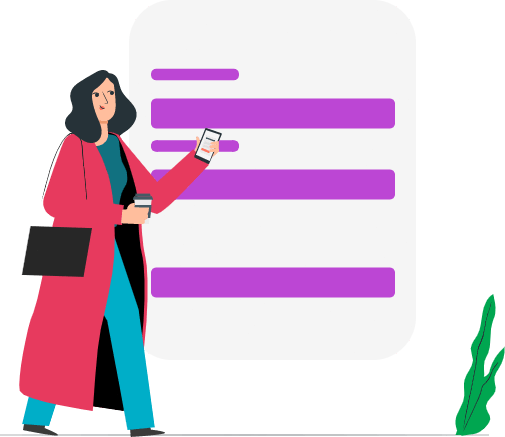
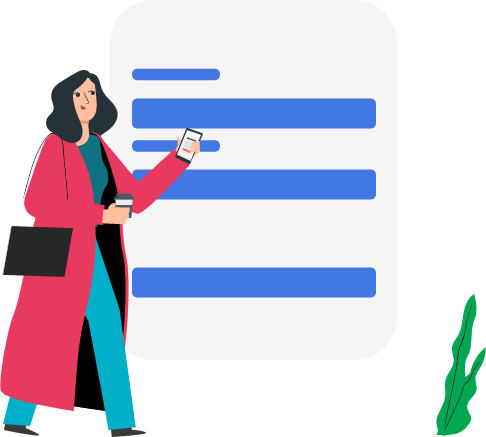
add

Changed region(s): [[0.0, 0.1487, 0.9877, 1.0]]

diff --git a/src/views/auth/verfiyemail.vue b/src/views/auth/verfiyemail.vue
@@ -15,10 +15,10 @@
                <h1 class="my-4 text-center">Verify your e-mail</h1>
                <p class="ppp"> Please enter the 4 digit code sent to name@example.com</p>
              <div class="my-4 v-code">
-                 <input type="text" class="i-code" @keyup="check($event)" v-model="i.i1">
-                 <input type="text" class="i-code" @keyup="check($event)" v-model="i.i2"> 
-                 <input type="text" class="i-code" @keyup="check($event)" v-model="i.i3">
-                 <input type="text" class="i-code" @keyup="check($event)" v-model="i.i4">
+                 <input type="number" min="0"  max="9" class="i-code" @keyup="check($event)" v-model="i.i1">
+                 <input type="number" min="0"  max="9" class="i-code" @keyup="check($event)" v-model="i.i2"> 
+                 <input type="number" min="0"  max="9" class="i-code" @keyup="check($event)" v-model="i.i3">
+                 <input type="number" min="0"  max="9" class="i-code" @keyup="check($event)" v-model="i.i4">
              </div>
              <h1 id="count"></h1>
              <div class="form-group my-5">
@@ -48,14 +48,14 @@ export default {
     methods:{
         check(e){
             // check verfiy inputs
-            var TypeOfKey = parseInt(e.key);
             var reqnumber = [0,1,2,3,4,5,6,7,8,9];  
             var isallow   = reqnumber.includes(parseInt(e.target.value)); 
             
 
-            if(Number.isInteger(TypeOfKey) && isallow){
+            if(isallow){
                 if(e.target.nextElementSibling != null){
                     e.target.nextElementSibling.focus();
+                    
                 }
             } else {
                 e.target.value = '';
@@ -69,18 +69,18 @@ export default {
 
         const CountdownE = document.getElementById("count");
 
-     var my = setInterval(()=>{
-            const minutes = Math.floor(time / 60);
-            const sec     = time % 60;
+        var my = setInterval(()=>{
+                const minutes = Math.floor(time / 60);
+                const sec     = time % 60;
 
-            CountdownE.innerHTML = `${minutes}: ${sec}`;
+                CountdownE.innerHTML = `${minutes}: ${sec}`;
 
-            time--;
-            if(time < 0) {
-                clearInterval(my);
-            }
-        }, 1000)
-    }
+                time--;
+                if(time < 0) {
+                    clearInterval(my);
+                }
+            }, 1000)
+        }
 }
 </script>
 
@@ -91,7 +91,7 @@ body{
 .row{
     margin: 0 !important;
         .left {
-        background-color: #BA43DE;
+        background-color: #447AE6;
         height: 100vh;
         border-bottom-right-radius: 25px;
         border-top-right-radius: 25px;
@@ -120,6 +120,11 @@ body{
          margin-top: 80px;
         .ppp{
             font-size: 19px;
+        }
+        input[type=number]::-webkit-inner-spin-button, 
+        input[type=number]::-webkit-outer-spin-button { 
+        -webkit-appearance: none; 
+        
         }
         .i-code{
             border: none;
@@ -159,8 +164,9 @@ body{
 
             .create-account{
                 .btn-create-account{
-                     width: 461px;
-                    background-color: #BC45D6;
+                    width: 461px;
+                    opacity: 0.5019607843137255;
+                    background-color: #4378E3;
                     color: white;
                     border: none;
                     cursor: pointer;
@@ -170,7 +176,13 @@ body{
                     box-shadow: 2px 2px 3px grey;
                     height: 50px;
                     margin-bottom: 20px;
-                    
+                    transition: all 0.2s;
+                    &:hover{
+                        opacity: 1;
+                    }
+                    &:focus{
+                        outline: none;
+                    }
                 }
             }
         }

diff --git a/src/views/auth/newpassword.vue b/src/views/auth/newpassword.vue
@@ -3,7 +3,7 @@
        <div class="row">
            <div class="col-6 left d-none d-md-block">
                <div>
-                   <img class="" src="..\..\..\public\imgs\Secure data-pana@1X.png">
+                   <img class="" src="..\..\..\public\imgs\freepik--Character--inject-70@1X.png">
                    <p>
                        Help us getting better by sending your thoughts about us and about our services,
                        you can also mention any other points that are related  by sending your by 
@@ -45,7 +45,7 @@ body{
 .row{
     margin: 0 !important;
         .left {
-        background-color: #BA43DE;
+        background-color: #447AE6;
         height: 100vh;
         border-bottom-right-radius: 25px;
         border-top-right-radius: 25px;
@@ -122,8 +122,9 @@ body{
 
             .create-account{
                 .btn-create-account{
-                     width: 461px;
-                    background-color: #BC45D6;
+                    width: 461px;
+                    opacity: 0.5019607843137255;
+                    background-color: #4378E3;
                     color: white;
                     border: none;
                     cursor: pointer;
@@ -133,6 +134,13 @@ body{
                     box-shadow: 2px 2px 3px grey;
                     height: 50px;
                     margin-bottom: 20px;
+                     transition: all 0.2s;
+                    &:hover{
+                        opacity: 1;
+                    }
+                    &:focus{
+                        outline: none;
+                    }
                 }
             }
         }

diff --git a/src/views/auth/signup.vue b/src/views/auth/signup.vue
@@ -68,7 +68,7 @@ body{
 .row{
     margin: 0 !important;
         .left {
-        background-color: #BA43DE;
+        background-color: #447AE6;
         height: 100vh;
         border-bottom-right-radius: 25px;
         border-top-right-radius: 25px;
@@ -184,8 +184,9 @@ body{
 
             .create-account{
                 .btn-create-account{
-                     width: 461px;
-                    background-color: #BC45D6;
+                    width: 461px;
+                    opacity: 0.5019607843137255;
+                    background-color: #4378E3;
                     color: white;
                     border: none;
                     cursor: pointer;
@@ -196,6 +197,13 @@ body{
                     height: 50px;
                     margin-bottom: 10px;
                     outline: none;
+                     transition: all 0.2s;
+                    &:hover{
+                        opacity: 1;
+                    }
+                    &:focus{
+                        outline: none;
+                    }
                 }
             }
         }

diff --git a/src/views/auth/login.vue b/src/views/auth/login.vue
@@ -59,7 +59,7 @@ body{
 .row{
     margin: 0 !important;
         .left {
-        background-color: #BA43DE;
+        background-color:#447AE6;
         height: 100vh;
         border-bottom-right-radius: 25px;
         border-top-right-radius: 25px;
@@ -172,8 +172,9 @@ body{
 
             .create-account{
                 .btn-create-account{
-                     width: 461px;
-                    background-color: #BC45D6;
+                    width: 461px;
+                    opacity: 0.5019607843137255;
+                    background-color: #4378E3;
                     color: white;
                     border: none;
                     cursor: pointer;
@@ -184,6 +185,13 @@ body{
                     height: 50px;
                     margin-bottom: 20px;
                     outline: none;
+                     transition: all 0.2s;
+                    &:hover{
+                        opacity: 1;
+                    }
+                    &:focus{
+                        outline: none;
+                    }
                 }
             }
         }

diff --git a/src/views/auth/forgotpassword.vue b/src/views/auth/forgotpassword.vue
@@ -42,7 +42,7 @@ body{
 .row{
     margin: 0 !important;
         .left {
-        background-color: #BA43DE;
+        background-color: #447AE6;
         height: 100vh;
         border-bottom-right-radius: 25px;
         border-top-right-radius: 25px;
@@ -100,8 +100,9 @@ body{
 
             .create-account{
                 .btn-create-account{
-                     width: 461px;
-                    background-color: #BC45D6;
+                    width: 461px;
+                    opacity: 0.5019607843137255;
+                    background-color: #4378E3;
                     color: white;
                     border: none;
                     cursor: pointer;
@@ -112,6 +113,13 @@ body{
                     height: 50px;
                     margin-bottom: 20px;
                     outline: none;
+                    transition: all 0.2s;
+                    &:hover{
+                        opacity: 1;
+                    }
+                    &:focus{
+                        outline: none;
+                    }
 
                 }
             }
